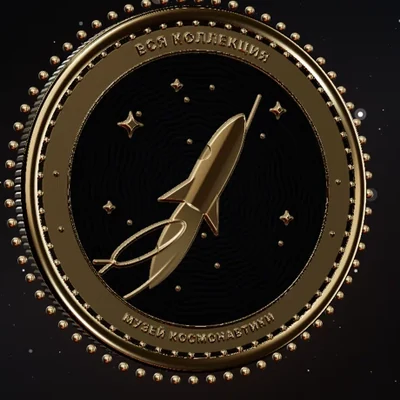
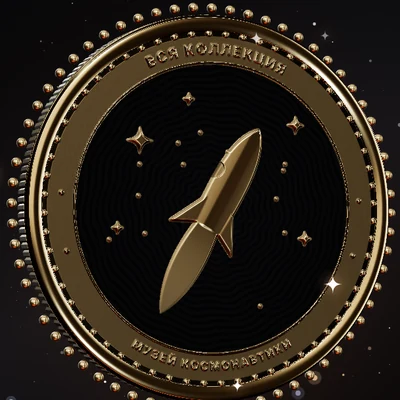
Презентация: значки с рельефом из марок и значки залов, медаль «Вся коллекция» без линий на слайде
Claude-Session: https://claude.ai/code/session_01YJBZo44z4sqSB2ZfaR5MQf

diff --git a/deck/index.html b/deck/index.html
@@ -714,6 +714,31 @@ canvas.stars{position:fixed;inset:0;width:100vw;height:100vh;z-index:0;pointer-e
 .awb .im img{max-height:100%;max-width:85%;filter:drop-shadow(0 16px 26px rgba(0,0,0,.55))}
 .awb b{font:400 calc(1.4*var(--u))/1.15 var(--f);color:var(--fg)}
 .awb span{font-size:calc(1*var(--u));line-height:1.38;color:#B8B5AF}
+
+/* v-nov25e: значки из марок и значки залов */
+.rl{display:grid;grid-template-columns:repeat(6,minmax(0,1fr));gap:calc(2*var(--u));width:100%;margin-top:auto;align-items:end}
+.rl figure{margin:0;display:flex;flex-direction:column;gap:calc(.35*var(--u))}
+.rl .im{height:calc(17*var(--u));display:flex;align-items:flex-end;justify-content:center;margin-bottom:calc(1.2*var(--u))}
+.rl .im img{max-width:100%;max-height:100%;filter:drop-shadow(0 22px 30px rgba(0,0,0,.6))}
+.rl i{font:500 calc(.82*var(--u)) var(--m);font-style:normal;letter-spacing:.12em;text-transform:uppercase;color:var(--ac)}
+.rl b{font:400 calc(1.45*var(--u))/1.15 var(--f);color:var(--fg)}
+.rl span{font-size:calc(1*var(--u));line-height:1.38;color:#B8B5AF}
+.rlnote{display:flex;gap:calc(3*var(--u));width:100%;margin-top:calc(2.2*var(--u));padding-top:calc(1.4*var(--u));border-top:1px solid rgba(255,255,255,.12)}
+.rlnote div{flex:1;font-size:calc(1.05*var(--u));line-height:1.45;color:#B8B5AF}
+.rlnote div b{display:block;font:500 calc(.82*var(--u)) var(--m);letter-spacing:.12em;text-transform:uppercase;color:var(--fg);margin-bottom:calc(.4*var(--u))}
+.hl{display:flex;flex-direction:column;gap:calc(3*var(--u));width:100%;margin-top:auto}
+.hl .row{display:grid;grid-template-columns:repeat(7,minmax(0,1fr));gap:calc(1.4*var(--u))}
+.hl figure{margin:0;display:flex;flex-direction:column;gap:calc(.35*var(--u))}
+.hl .im{height:calc(15*var(--u));display:flex;align-items:flex-end;justify-content:center;margin-bottom:calc(1*var(--u))}
+.hl .im img{max-width:100%;max-height:100%;filter:drop-shadow(0 18px 26px rgba(0,0,0,.55))}
+.hl i{font:500 calc(.82*var(--u)) var(--m);font-style:normal;letter-spacing:.12em;text-transform:uppercase;color:var(--ac)}
+.hl b{font:400 calc(1.35*var(--u))/1.2 var(--f);color:var(--fg)}
+.hlp{align-self:flex-end;width:calc(56*var(--u));border-radius:calc(2*var(--u));background:var(--panel);outline:1px solid var(--line);padding:calc(1.4*var(--u)) calc(2*var(--u));display:flex;align-items:center;gap:calc(2*var(--u))}
+.hlp .pr{display:flex;align-items:center;justify-content:center;gap:calc(1.2*var(--u))}
+.hlp .pr img{height:calc(8*var(--u));filter:drop-shadow(0 16px 24px rgba(0,0,0,.5))}
+.hlp .pr em{font-style:normal;font-size:calc(2*var(--u));color:var(--mu)}
+.hlp p{margin:0;font-size:calc(1.05*var(--u));line-height:1.45;color:#B8B5AF;max-width:none}
+.hlp p b{color:var(--fg);font-weight:500}
 </style>
 
 <div class="wrap">
@@ -865,6 +890,15 @@ new MutationObserver(function(){if(!SEC.classList.contains('on')&&!A.paused)A.pa
 <section class="ch" data-cap="Награды" data-wide="1">
 <div class="kick">Награды / значки</div><h2>Значки<br><em>с историей</em></h2><p class="phlead">Каждый значок держится на одной реальной детали: позывной, длительность полёта, частота сигнала, формула, дата. И форма у каждого своя: планка, флажок, циферблат, щит, вымпел</p>
 <div class="awb"><figure><div class="im"><img src="img/aw/b1.webp" alt="Значок «Кедр»" decoding="async"></div><b>«Кедр»</b><span>Позывной Гагарина 12 апреля 1961 и радиоволны переговоров с Землёй</span></figure><figure><div class="im"><img src="img/aw/b2.webp" alt="Значок 108 минут" decoding="async"></div><b>108 минут</b><span>Ровно столько длился полёт Гагарина: дуга на циферблате</span></figure><figure><div class="im"><img src="img/aw/b3.webp" alt="Значок Бип-бип" decoding="async"></div><b>Бип-бип</b><span>Сигнал первого спутника на частоте 20,005 МГц, 1957</span></figure><figure><div class="im"><img src="img/aw/b4.webp" alt="Значок Байконур" decoding="async"></div><b>Байконур</b><span>Ракета Р-7 в фермах «Гагаринского старта»</span></figure><figure><div class="im"><img src="img/aw/b5.webp" alt="Значок «Чайка»" decoding="async"></div><b>«Чайка»</b><span>Позывной Терешковой, 16 июня 1963</span></figure><figure><div class="im"><img src="img/aw/b6.webp" alt="Значок Формула Циолковского" decoding="async"></div><b>Формула Циолковского</b><span>Ракета 1903 года и формула скорости</span></figure><figure><div class="im"><img src="img/aw/b7.webp" alt="Значок Колея" decoding="async"></div><b>Колея</b><span>10,5 км «Лунохода-1» по Морю Дождей</span></figure><figure><div class="im"><img src="img/aw/b8.webp" alt="Значок Шлюз" decoding="async"></div><b>Шлюз</b><span>Люк «Восхода-2» и Леонов на фале, 18 марта 1965</span></figure><figure><div class="im"><img src="img/aw/b9.webp" alt="Значок «Буран»" decoding="async"></div><b>«Буран»</b><span>Посадка на полосу 15 ноября 1988, единственный полёт</span></figure><figure><div class="im"><img src="img/aw/b10.webp" alt="Значок «Мир»" decoding="async"></div><b>«Мир»</b><span>Станция 1986 года с модулями и батареями</span></figure><figure><div class="im"><img src="img/aw/b11.webp" alt="Значок Вымпел «Луны-2»" decoding="async"></div><b>Вымпел «Луны-2»</b><span>Пятиугольная пластина, доставленная на Луну в 1959</span></figure><figure><div class="im"><img src="img/aw/b12.webp" alt="Значок «Союз — Аполлон»" decoding="async"></div><b>«Союз — Аполлон»</b><span>Рукопожатие на орбите 17 июля 1975</span></figure></div>
+</section>
+<section class="ch" data-cap="Награды" data-wide="1">
+<div class="kick">Награды / значки из марок</div><h2>Значки<br><em>с рельефом</em></h2><p class="phlead">Рельеф выбит прямо из кадра марки: светлое — выпуклый металл, тёмное — эмаль. В приложении значок можно наклонять пальцем или телефоном — свет бежит по рельефу</p>
+<div class="rl"><figure><div class="im"><img src="img/aw2/r_sp_rect.webp" alt="Значок Спутник-1" decoding="async"></div><i>Р-01</i><b>Спутник-1</b><span>Прямоугольник / серебро, синяя эмаль</span></figure><figure><div class="im"><img src="img/aw2/r_sp_hex.webp" alt="Значок ПС-1" decoding="async"></div><i>Р-02</i><b>ПС-1</b><span>Шестиугольник / серебро, чёрная эмаль</span></figure><figure><div class="im"><img src="img/aw2/r_l16_arch.webp" alt="Значок Луна-16" decoding="async"></div><i>Р-04</i><b>Луна-16</b><span>Арка / титан, фиолетовая эмаль</span></figure><figure><div class="im"><img src="img/aw2/r_lh_cham.webp" alt="Значок Луноход-1" decoding="async"></div><i>Р-05</i><b>Луноход-1</b><span>Скошенные углы / бронза с патиной</span></figure><figure><div class="im"><img src="img/aw2/r_lh_shield.webp" alt="Значок Луноход-1" decoding="async"></div><i>Р-06</i><b>Луноход-1</b><span>Щит / серебро, графитовая эмаль</span></figure><figure><div class="im"><img src="img/aw2/r_sp_pill.webp" alt="Значок Бип-бип" decoding="async"></div><i>Р-08</i><b>Бип-бип</b><span>Капсула / графит, морская эмаль</span></figure></div>
+<div class="rlnote"><div><b>Из любой марки</b>Каждый кадр серии «Кино и хром» даёт значок автоматически</div><div><b>Форма и металл</b>Прямоугольник, шестиугольник, арка, щит, капсула; серебро, титан, бронза</div></div>
+</section>
+<section class="ch" data-cap="Награды" data-wide="1">
+<div class="kick">Награды / значки залов</div><h2>Семь залов —<br><em>семь значков</em></h2><p class="phlead">Значок зала собирается сканированием: заклёпки снизу — по одной на ключевой экспонат. Обошёл зал — значок становится цветным</p>
+<div class="hl"><div class="hlp"><div class="pr"><img src="img/aw2/p_luna.webp" alt="Значок зала 4 до сбора" decoding="async"><em>→</em><img src="img/aw2/h_luna.webp" alt="Значок зала 4 собран" decoding="async"></div><p><b>Пока зал не собран, эмаль серая</b>, а заклёпки отмечают найденные экспонаты. Видно, сколько осталось, — и хочется дойти</p></div><div class="row"><figure><div class="im"><img src="img/aw2/h_utro.webp" alt="Значок зала «Утро космической эры»" decoding="async"></div><i>Зал 1</i><b>Утро эры</b></figure><figure><div class="im"><img src="img/aw2/h_tvortsy.webp" alt="Значок зала «Творцы»" decoding="async"></div><i>Зал 2</i><b>Творцы</b></figure><figure><div class="im"><img src="img/aw2/h_dom.webp" alt="Значок зала «Дом на орбите»" decoding="async"></div><i>Зал 3</i><b>Дом на орбите</b></figure><figure><div class="im"><img src="img/aw2/h_luna.webp" alt="Значок зала «Луна и планеты»" decoding="async"></div><i>Зал 4</i><b>Луна и планеты</b></figure><figure><div class="im"><img src="img/aw2/h_mezhdu.webp" alt="Значок зала «Международное сотрудничество»" decoding="async"></div><i>Зал 5</i><b>Вместе</b></figure><figure><div class="im"><img src="img/aw2/h_people.webp" alt="Значок зала «Космонавтика — человечеству»" decoding="async"></div><i>Зал 6</i><b>Людям</b></figure><figure><div class="im"><img src="img/aw2/h_park.webp" alt="Значок зала «Космический парк»" decoding="async"></div><i>Парк</i><b>Ракеты мира</b></figure></div></div>
 </section>
 <section class="ch" data-cap="Удержание" data-wide="1">
 <div class="kick">Как сделать, чтобы приходили снова</div><h2>Повод вернуться — <em>каждый месяц</em></h2><p class="phlead">В музее постоянно что-то происходит: даты, выставки, встречи с космонавтами. Каждое событие становится маршрутом в приложении — с пушем, отметкой и историей</p><div class="dgw"><svg class="dg" viewBox="0 0 860 356" role="img" font-family="Inter,Onest,system-ui"><defs><marker id="ar" viewBox="0 0 10 10" refX="9" refY="5" markerWidth="7" markerHeight="7" orient="auto-start-reverse"><path d="M0 0L10 5L0 10z" fill="rgba(255,255,255,.22)"/></marker></defs><line x1="230.0" y1="26" x2="230.0" y2="352" stroke="rgba(255,255,255,.07)"/><text x="233.0" y="18" font-size="11" font-weight="400" fill="#8B8F9C" text-anchor="start">янв</text><line x1="282.6575342465753" y1="26" x2="282.6575342465753" y2="352" stroke="rgba(255,255,255,.07)"/><text x="285.6575342465753" y="18" font-size="11" font-weight="400" fill="#8B8F9C" text-anchor="start">фев</text><line x1="330.2191780821918" y1="26" x2="330.2191780821918" y2="352" stroke="rgba(255,255,255,.07)"/><text x="333.2191780821918" y="18" font-size="11" font-weight="400" fill="#8B8F9C" text-anchor="start">мар</text><line x1="382.8767123287671" y1="26" x2="382.8767123287671" y2="352" stroke="rgba(255,255,255,.07)"/><text x="385.8767123287671" y="18" font-size="11" font-weight="400" fill="#8B8F9C" text-anchor="start">апр</text><line x1="433.83561643835617" y1="26" x2="433.83561643835617" y2="352" stroke="rgba(255,255,255,.07)"/><text x="436.83561643835617" y="18" font-size="11" font-weight="400" fill="#8B8F9C" text-anchor="start">май</text><line x1="486.4931506849315" y1="26" x2="486.4931506849315" y2="352" stroke="rgba(255,255,255,.07)"/><text x="489.4931506849315" y="18" font-size="11" font-weight="400" fill="#8B8F9C" text-anchor="start">июн</text><line x1="537.4520547945206" y1="26" x2="537.4520547945206" y2="352" stroke="rgba(255,255,255,.07)"/><text x="540.4520547945206" y="18" font-size="11" font-weight="400" fill="#8B8F9C" text-anchor="start">июл</text><line x1="590.1095890410959" y1="26" x2="590.1095890410959" y2="352" stroke="rgba(255,255,255,.07)"/><text x="593.1095890410959" y="18" font-size="11" font-weight="400" fill="#8B8F9C" text-anchor="start">авг</text><line x1="642.7671232876712" y1="26" x2="642.7671232876712" y2="352" stroke="rgba(255,255,255,.07)"/><text x="645.7671232876712" y="18" font-size="11" font-weight="400" fill="#8B8F9C" text-anchor="start">сен</text><line x1="693.7260273972603" y1="26" x2="693.7260273972603" y2="352" stroke="rgba(255,255,255,.07)"/><text x="696.7260273972603" y="18" font-size="11" font-weight="400" fill="#8B8F9C" text-anchor="start">окт</text><line x1="746.3835616438356" y1="26" x2="746.3835616438356" y2="352" stroke="rgba(255,255,255,.07)"/><text x="749.3835616438356" y="18" font-size="11" font-weight="400" fill="#8B8F9C" text-anchor="start">ноя</text><line x1="797.3424657534247" y1="26" x2="797.3424657534247" y2="352" stroke="rgba(255,255,255,.07)"/><text x="800.3424657534247" y="18" font-size="11" font-weight="400" fill="#8B8F9C" text-anchor="start">дек</text><text x="0" y="48" font-size="13" font-weight="400" fill="#ECEAE6" text-anchor="start">Встречи с космонавтами · лекции</text><rect x="248.68493150684932" y="38" width="567.3424657534247" height="12" rx="6" fill="rgba(154,163,178,.18)" stroke="#9AA3B2"/><text x="0" y="74" font-size="13" font-weight="400" fill="#ECEAE6" text-anchor="start">Зимние каникулы</text><rect x="230.0" y="64" width="15.287671232876704" height="12" rx="6" fill="rgba(154,163,178,.18)" stroke="#9AA3B2"/><text x="0" y="100" font-size="13" font-weight="400" fill="#ECEAE6" text-anchor="start">День рождения Гагарина</text><path d="M343.8082191780822 89l7 7l-7 7l-7 -7z" fill="#9AA3B2"/><text x="355.8082191780822" y="100" font-size="11" font-weight="400" fill="#8B8F9C" text-anchor="start">9 мар</text><text x="0" y="126" font-size="13" font-weight="400" fill="#ECEAE6" text-anchor="start">Выход Леонова · «Беркут»</text><path d="M359.0958904109589 115l7 7l-7 7l-7 -7z" fill="#9AA3B2"/><text x="371.0958904109589" y="126" font-size="11" font-weight="400" fill="#8B8F9C" text-anchor="start">18 мар</text><text x="0" y="152" font-size="13" font-weight="600" fill="#ECEAE6" text-anchor="start">День космонавтики</text><path d="M401.56164383561645 141l7 7l-7 7l-7 -7z" fill="#FF8A4A"/><text x="413.56164383561645" y="152" font-size="11" font-weight="600" fill="#ECEAE6" text-anchor="start">12 апр</text><text x="0" y="178" font-size="13" font-weight="400" fill="#ECEAE6" text-anchor="start">Ночь музеев</text><rect x="433.83561643835617" y="168" width="50.958904109589014" height="12" rx="6" fill="rgba(154,163,178,.18)" stroke="#9AA3B2"/><text x="0" y="204" font-size="13" font-weight="400" fill="#ECEAE6" text-anchor="start">Полёт Терешковой</text><path d="M511.972602739726 193l7 7l-7 7l-7 -7z" fill="#9AA3B2"/><text x="523.972602739726" y="204" font-size="11" font-weight="400" fill="#8B8F9C" text-anchor="start">16 июн</text><text x="0" y="230" font-size="13" font-weight="400" fill="#ECEAE6" text-anchor="start">Летние каникулы</text><rect x="486.4931506849315" y="220" width="154.57534246575347" height="12" rx="6" fill="rgba(154,163,178,.18)" stroke="#9AA3B2"/><text x="0" y="256" font-size="13" font-weight="400" fill="#ECEAE6" text-anchor="start">Начало учёбы</text><path d="M642.7671232876712 245l7 7l-7 7l-7 -7z" fill="#9AA3B2"/><text x="654.7671232876712" y="256" font-size="11" font-weight="400" fill="#8B8F9C" text-anchor="start">1 сен</text><text x="0" y="282" font-size="13" font-weight="400" fill="#ECEAE6" text-anchor="start">Запуск первого спутника</text><path d="M698.8219178082192 271l7 7l-7 7l-7 -7z" fill="#9AA3B2"/><text x="710.8219178082192" y="282" font-size="11" font-weight="400" fill="#8B8F9C" text-anchor="start">4 окт</text><text x="0" y="308" font-size="13" font-weight="400" fill="#ECEAE6" text-anchor="start">Всемирная неделя космоса</text><rect x="698.8219178082192" y="298" width="10.19178082191786" height="12" rx="6" fill="rgba(154,163,178,.18)" stroke="#9AA3B2"/><text x="0" y="334" font-size="13" font-weight="400" fill="#ECEAE6" text-anchor="start">Новогодний сезон</text><rect x="829.6164383561644" y="324" width="18.684931506849352" height="12" rx="6" fill="rgba(154,163,178,.18)" stroke="#9AA3B2"/></svg></div>
